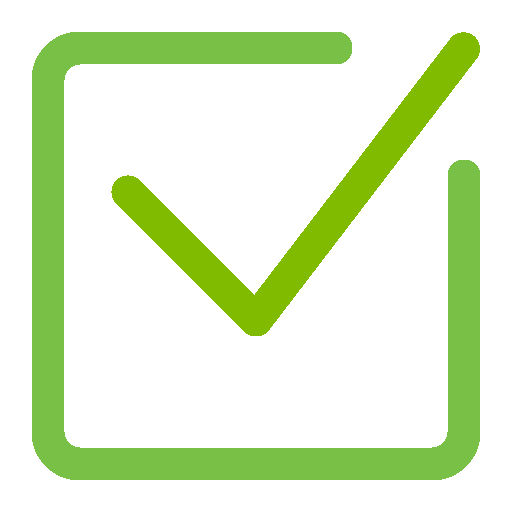
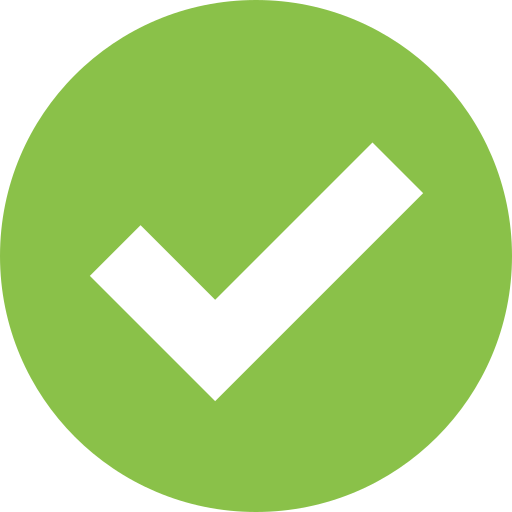
DTC - Refonte stock checkout

diff --git a/modules/ckc_stores_stock/assets/js/stores_stock.js b/modules/ckc_stores_stock/assets/js/stores_stock.js
@@ -308,7 +308,10 @@ function showQuantityLimitMessage(maxQty) {
 function updateStoreDisplay(resp) {
     if (resp.id_store) {
         $(".store-selected").show();
-        $(".store-selected .nameStore").html(`${resp.store_name}<br>`);
+        $(".store-selected .nameStore").html(
+            '<img src="/modules/ckc_stores_stock/assets/img/nameStore.webp" alt="Magasin" style="width: 50px; height: 50px;">' +
+            '<span class="font-weight-normal">Votre magasin</span> <span class="font-weight-bold">Districlos ' + resp.store_name.replace('DISTRICLOS ', '').replace('Districlos ', '') + '</span><br>'
+        );
         $(".store-selected .productQuantity").html(resp.quantity > 0 ? `${resp.quantity} produit(s) en stock` : "Arrivage en cours");
         $("#modalProductStock-" + resp.id_store).html(getStockSvg(resp.quantity));
     } else {
@@ -420,6 +423,14 @@ $(document).ready(function () {
 });
 
 
+// Icône info pour productLimit avec wrapper pour tooltip
+function createInfoIcon(tooltipContent) {
+    return '<span class="info-icon-wrapper">' +
+           '<svg xmlns="http://www.w3.org/2000/svg" width="16" height="16" viewBox="0 0 24 24" fill="none" stroke="#79c046" stroke-width="2" stroke-linecap="round" stroke-linejoin="round" style="margin-left: 5px; vertical-align: middle; cursor: pointer;"><circle cx="12" cy="12" r="10"></circle><line x1="12" y1="16" x2="12" y2="12"></line><line x1="12" y1="8" x2="12.01" y2="8"></line></svg>' +
+           '<span class="custom-tooltip">' + tooltipContent + '</span>' +
+           '</span>';
+}
+
 if ($('.delivery-option input').length > 0) {
     $('.delivery-option input').change(function () {
         let selectedDelivery = $('input[name*="delivery_option"]:checked').attr('id');
@@ -431,7 +442,10 @@ if ($('.delivery-option input').length > 0) {
             "json"
         ).then(function (resp) {
             // Mettre à jour le nom du magasin (toujours visible)
-            $('#stock-summary-content .nameStore').html(resp.data.stock.store_name);
+            $('#stock-summary-content .nameStore').html(
+                '<img src="/modules/ckc_stores_stock/assets/img/nameStore.webp" alt="Magasin" style="width: 50px; height: 50px;">' +
+                '<span class="font-weight-normal">Votre magasin</span> <span class="font-weight-bold">Districlos ' + resp.data.stock.store_name.replace('DISTRICLOS ', '').replace('Districlos ', '') + '</span>'
+            );
             
             // Vérifier s'il y a des produits normaux (pas fin de série)
             const hasNormalProducts = resp.data.stocks && resp.data.stocks.length > 0;
@@ -456,37 +470,56 @@ if ($('.delivery-option input').length > 0) {
                 if (resp.data.stock.isClickAndCollect) {
                     $('#stock-summary-content .card-header').html('Click & Collect');
                     if (resp.data.stock.stock_ok) {
-                        $('#stock-summary-content .productLimit').html('Super ! Un ou plusieurs produits sont en stock ( hors plateforme )');
+                        var tooltipText = '';
                         // Message spécial pour le store Essonne (19)
                         if (resp.data.stock.store_id == 19) {
-                            $('#stock-summary-content .text').html('<p>Disponibilité sous 5 jours ouvrés en magasin, selon stock. Le magasin vous contactera dès que votre commande sera prête.</p>');
+                            tooltipText = 'Disponibilité sous 5 jours ouvrés en magasin, selon stock. Le magasin vous contactera dès que votre commande sera prête.';
                         } else {
-                            $('#stock-summary-content .text').html('<p>Vous pouvez venir récupérer les produits en stock dans votre magasin 2h après votre commande.</p>')
+                            tooltipText = 'Vous pouvez venir récupérer les produits en stock dans votre magasin 2h après votre commande.';
                         }
+                        $('#stock-summary-content .productLimit').html('Super ! Un ou plusieurs produits sont en stock ( hors plateforme ) ' + createInfoIcon(tooltipText));
                     } else {
-                        $('#stock-summary-content .productLimit').html('Un ou des produits sont en cours de réapprovisionnement ( hors plateforme )');
+                        var tooltipText = '';
                         // Message spécial pour le store Essonne (19)
                         if (resp.data.stock.store_id == 19) {
-                            $('#stock-summary-content .text').html('<p>Disponibilité sous 5 jours ouvrés en magasin, selon stock. Le magasin vous contactera dès que votre commande sera prête.</p>');
+                            tooltipText = 'Disponibilité sous 5 jours ouvrés en magasin, selon stock. Le magasin vous contactera dès que votre commande sera prête.';
                         } else {
-                            $('#stock-summary-content .text').html('<p>Vous pouvez venir récupérer les produits en stock dans votre magasin.</p> <p>Pour les produits en cours de réapprovisionnement, nous vous appellerons aussitôt ces derniers disponibles.</p>')
+                            tooltipText = 'Vous pouvez venir récupérer les produits en stock dans votre magasin.<br><br>Pour les produits en cours de réapprovisionnement, nous vous appellerons aussitôt ces derniers disponibles.';
                         }
+                        $('#stock-summary-content .productLimit').html('Un ou des produits sont en cours de réapprovisionnement ( hors plateforme ) ' + createInfoIcon(tooltipText));
                     }
                 } else {
                     $('#stock-summary-content .card-header').html('Livraison');
-                    $('#stock-summary-content .productLimit').html('Notre magasin vous livre à domicile ou sur votre chantier !');
-                    $('#stock-summary-content .text').html('<p>La livraison se fait sur rendez-vous uniquement. Nous allons vous contacter suite à votre commande pour déterminer cette date.</p><p>Le délais moyen pour vos produits est entre 10 à 15 jours ouvrés (sous réserve de stock disponible).</p>')
+                    var tooltipText = 'La livraison se fait sur rendez-vous uniquement. Nous allons vous contacter suite à votre commande pour déterminer cette date.<br><br>Le délais moyen pour vos produits est entre 10 à 15 jours ouvrés (sous réserve de stock disponible).';
+                    $('#stock-summary-content .productLimit').html('Notre magasin vous livre à domicile ou sur votre chantier ! ' + createInfoIcon(tooltipText));
                 }
                 
                 $('#stock-summary-content .products').empty();
                 
                 for (let i = 0; i < resp.data.stocks.length; i++) {
+                    var image = '';
+                    var statusColor = '';
+                    var statusText = '';
+                    
                     if (resp.data.stocks[i].stock_ok) {
-                        var image = '<img src="/modules/ckc_stores_stock/assets/img/selectionner.webp" class="unveil-loaded">'
+                        image = '<img src="/modules/ckc_stores_stock/assets/img/selectionner.webp" class="unveil-loaded">';
+                        statusColor = '#79C046';
+                        statusText = 'en stock';
                     } else {
-                        var image = '<img src="/modules/ckc_stores_stock/assets/img/moins.webp" class="unveil-loaded">'
+                        image = '<img src="/modules/ckc_stores_stock/assets/img/moins.webp" class="unveil-loaded">';
+                        statusColor = '#F6AC00';
+                        statusText = 'arrivage en cours';
                     }
-                    $('#stock-summary-content .products').append('<p class="productQuantity" style="color:#000000;">' + image + resp.data.stocks[i].product_name + '<br></p>')
+                    
+                    $('#stock-summary-content .products').append(
+                        '<p class="productQuantity" style="color:#000000;">' + 
+                        image + 
+                        '<span>' +
+                        resp.data.stocks[i].product_name + 
+                        '<br><small style="color: ' + statusColor + '; font-size: 11px;">' + 
+                        statusText + 
+                        '</small></span></p>'
+                    );
                 }
             } else {
                 // Aucun produit normal, supprimer/vider les sections
@@ -497,8 +530,9 @@ if ($('.delivery-option input').length > 0) {
             
             // Gérer la section des produits fin de série
             if (hasFinSerieProducts) {
+                var finSerieTooltip = 'Ce produit est disponible sur notre plateforme logistique, pour une meilleure disponibilité.';
                 let finSerieHtml = '<div class="fin-serie-section mt-3">' +
-                    '<p class="productLimit" style="color:#79c046;">Un ou des produits sont en stock sur plateforme</p>' +
+                    '<p class="productLimit" style="color:#79c046;">Un ou des produits sont en stock sur plateforme ' + createInfoIcon(finSerieTooltip) + '</p>' +
                     '<div class="products fin-serie-products">';
                 
                 resp.data.finSerieStocks.forEach(function(productStock) {

diff --git a/modules/ckc_stores_stock/assets/css/stores_stock.css b/modules/ckc_stores_stock/assets/css/stores_stock.css
@@ -18,10 +18,6 @@
 	margin-top: 1.75rem;
 }
 
-#stock-summary-content span.nameStore {
-	font-weight: 600;
-}
-
 #stock-summary-content div.text p {
 	font-size: 13px;
 	font-weight: 500;
@@ -32,14 +28,49 @@
 	color: #79c046;
 	font-weight: 600;
 	margin: 0.5rem 0;
+	position: relative;
 }
+
+/* Tooltip personnalisé pour l'icône info */
+.info-icon-wrapper {
+	position: relative;
+	display: inline-block;
+}
+
+.info-icon-wrapper .custom-tooltip {
+	display: block;
+	visibility: hidden;
+	opacity: 0;
+	position: absolute;
+	z-index: 9999;
+	top: 125%;
+	transform: translateX(-50%);
+	background-color: white;
+	color: black;
+	text-align: left;
+	padding: 12px 15px;
+	font-size: 10px;
+	font-weight: normal;
+	min-width: 280px;
+	max-width: 350px;
+	box-shadow: 0 4px 12px rgba(0, 0, 0, 0.15);
+}
+
+.info-icon-wrapper:hover .custom-tooltip,
+.info-icon-wrapper svg:hover + .custom-tooltip {
+	visibility: visible;
+	opacity: 1;
+}
+
+
 
 #stock-summary-content p.productQuantity {
 	font-size: 14px;
-	font-weight: 600;
-	margin: 0.5rem 0;
+	font-weight: 400;
+	margin-bottom: 5px;
 	display: flex;
 	gap: 10px;
+	line-height: 1.2;
 }
 
 #stock-summary-content p.productQuantity img {
@@ -55,8 +86,7 @@
 }
 
 #stock-summary-content div.card div.card-block span.nameStore {
-	font-size: 20px;
-	font-weight: 600;
+	font-size: 16px;
 	text-decoration: none !important;
 }
 
